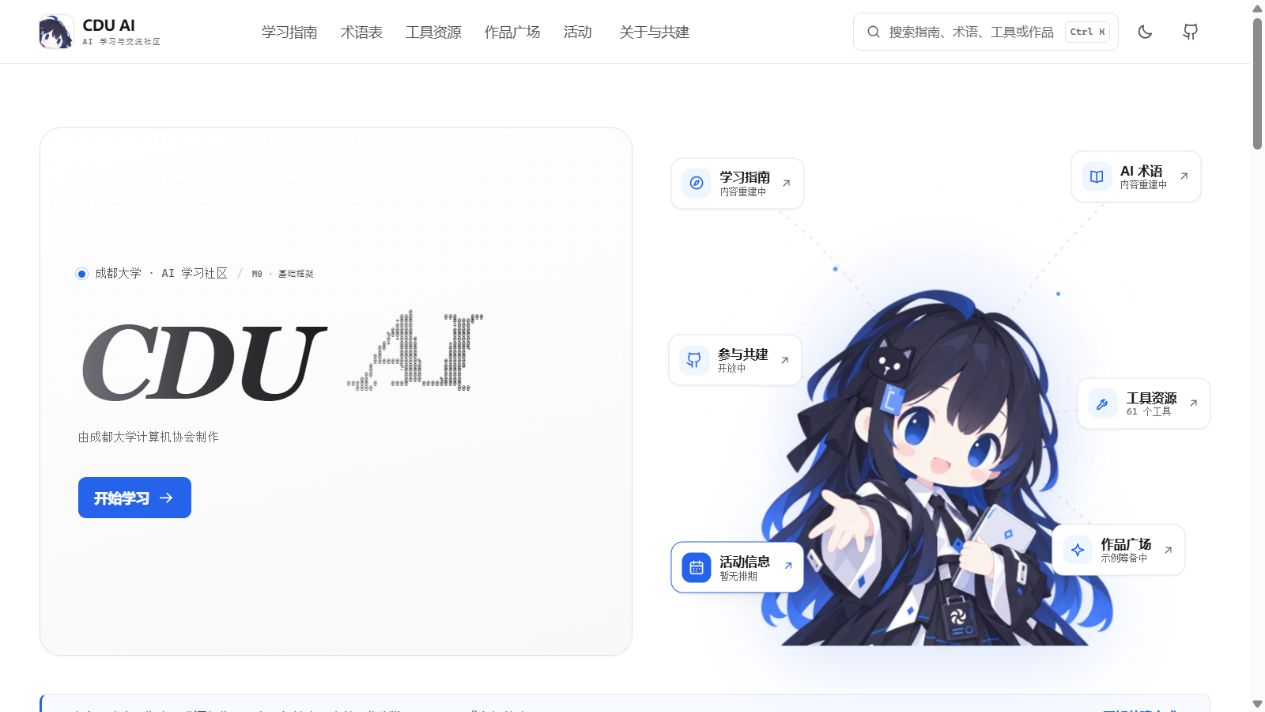
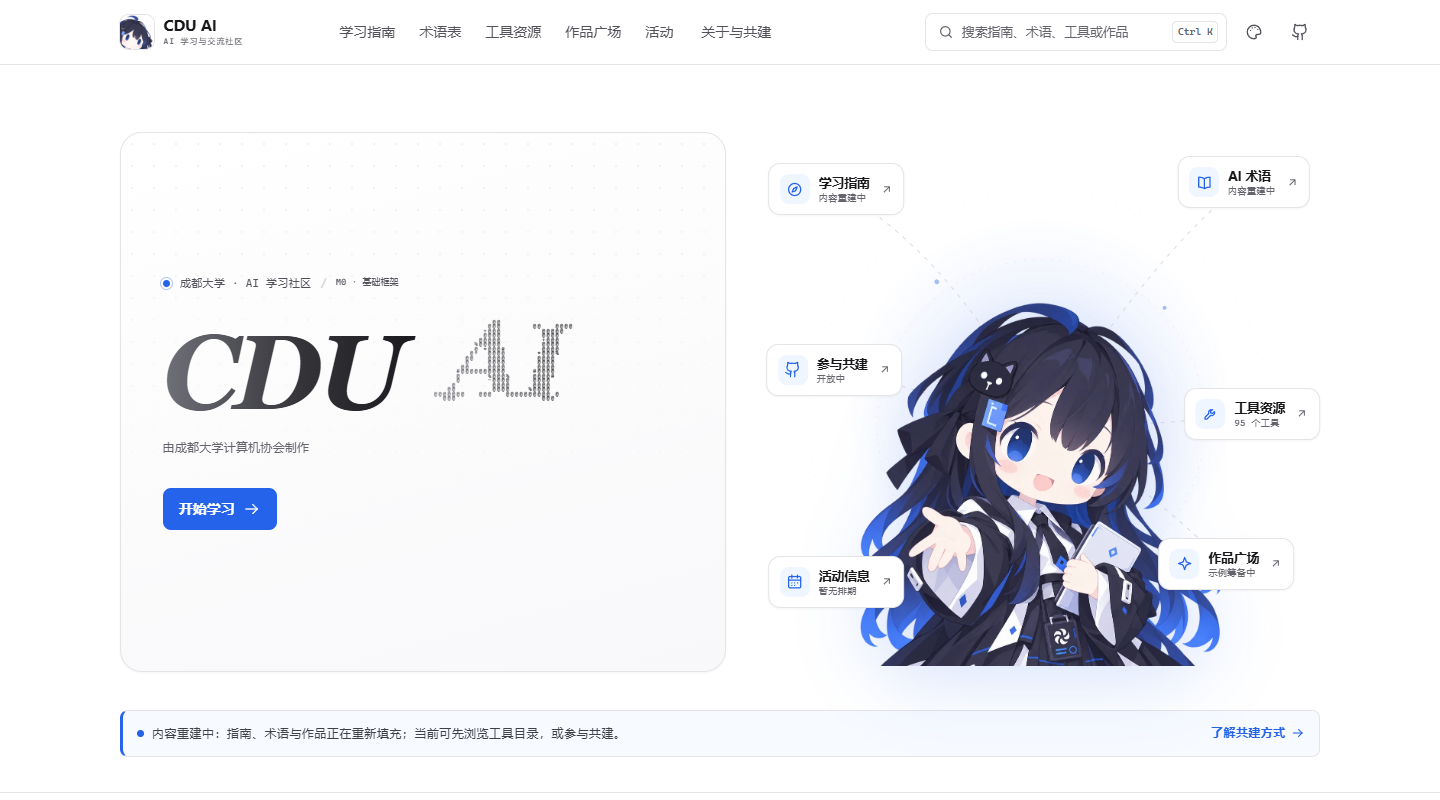
docs: 更新 README、站点入口与界面截图

diff --git a/README.md b/README.md
@@ -6,24 +6,35 @@
 
 由成都大学计算机协会 AI 方向发起，**非学校官方平台**。
 
+**访问网站：[wiki.cduai.top](https://wiki.cduai.top/)**
+
 [参与共建](CONTRIBUTING.md) · [文档导航](docs/README.md) · [贡献与致谢](CONTRIBUTORS.md) · [反馈问题](https://github.com/A7m0spHere/CDU-AI/issues)
 
-> **M0 · 开发中**：站点框架和工具目录已可使用，指南、术语与作品仍在补充。账号、论坛、评论、站内投稿表单和活动报名尚未开放。
+> **M0 · 开发中**：首页、工具目录与指南首页已可浏览，独立指南文章、术语与作品仍在补充。账号、论坛、评论、站内投稿表单和活动报名尚未开放。
 
-![CDU AI 首页：学习入口、项目定位与当前开发状态](docs/screenshots/home.png)
+![CDU AI 首页：品牌角色、学习入口与栏目导航](docs/screenshots/home.png)
 
 ## 当前可以看什么
 
-以下为 **2026-10-24 当前分支的内容快照**。栏目与内容数量由页面数据生成，收录不等于推荐。
+以下为 **2026-10-27 的仓库内容快照**。页面中的栏目与数量由数据生成，收录不等于推荐。
 
-| 栏目 | 可用内容与进度 |
-| --- | --- |
-| 工具资源 | 91 项工具与社区资源、12 个一级分类；各栏目按用途分区，语音与音频统一入口；支持栏目内搜索与能力筛选，更多社区 Agent 默认折叠，暂不收录独立模型 |
-| AI 术语表 | 已有「AI 幻觉」人工核校示范词条，其他词条待社区补充 |
-| 学习指南 | 三阶段学习路径与六个目录分组已建立，指南正文待补充 |
-| 作品广场 | 当前为空；新增示例时会明确标注「策划示例」 |
-| 社区与活动 | 社区暂不开放；活动页展示形式规划，没有真实排期 |
-| 站内搜索 | 支持页面、工具与现有内容检索；快捷键为 Ctrl / Cmd + K |
+- **首页**：三组共 15 个 AI 应用场景，支持换卡浏览；「开始探索AI」用抽象点阵与流动菜单连接指南、工具和术语。场景展示不代表站内提供相应执行能力。
+- **工具资源**：95 项工具与社区资源、11 个一级分类；按用途分区，支持栏目内搜索与能力筛选，更多社区 Agent 默认折叠，暂不收录独立模型。
+- **AI 术语表**：已有「AI 幻觉」人工核校示范词条，其他词条待社区补充。
+- **学习指南**：指南首页已有基础介绍与插图，六个目录分组已建立，独立指南文章待补充。
+- **作品广场**：当前为空；新增示例时会明确标注「策划示例」。
+- **社区与活动**：社区暂不开放；活动页展示形式规划，没有真实排期。
+- **站内搜索**：支持页面、工具与现有内容检索；快捷键为 Ctrl / Cmd + K。
+- **主题与阅读**：支持浅色、深色、预设和自定义主题，可调整配色、背景与字体；动效尊重系统的减少动效设置。
+
+<details>
+<summary>查看首页应用场景与探索入口</summary>
+
+![首页应用场景：探索与理解、表达与创作、动手与实现三组叠卡，每组五个场景](docs/screenshots/home-scenarios.png)
+
+![开始探索AI：随主题配色的抽象点阵，以及指南、工具、术语三个流动菜单入口](docs/screenshots/home-explore.png)
+
+</details>
 
 <details>
 <summary>查看工具目录界面</summary>
@@ -32,7 +43,7 @@
 
 </details>
 
-截图来自 2026-10-24 的本地开发构建，主要展示界面布局，内容数量以当前页面为准；不代表已完成 M0 阶段验收。
+以上截图来自 2026-10-27 的本地生产构建，展示首页与工具目录界面，内容数量以当前页面为准；不代表已完成 M0 阶段验收。
 
 ## 参与共建
 
@@ -75,6 +86,4 @@ npm run preview  # 预览构建产物
 
 ## 许可与素材
 
-代码许可见 [MIT License](LICENSE)。角色插画由维护者提供，复用请先联系维护组；第三方品牌图标的出处与使用说明见 [图标来源记录](docs/TOOL-LOGOS.md)。主题图片、像素贴图与字体的来源及各自许可见 [主题素材记录](docs/THEME-ASSETS.md)，其中奶鲸为维护者确认的 AI 创作图，鲸鱼娘沿用上游标注的 CC BY-NC-SA 4.0。
-
-贡献者名单与项目致谢统一记录在 [CONTRIBUTORS.md](CONTRIBUTORS.md)。
+[代码许可（MIT）](LICENSE) · [素材来源与使用说明](docs/README.md#品牌素材与截图) · [贡献与致谢](CONTRIBUTORS.md)

diff --git a/docs/README.md b/docs/README.md
@@ -52,6 +52,8 @@
 | 作品封面组件 | [`WorkArt.astro`](../src/components/WorkArt.astro)，当前用于示例版式 |
 | 工具品牌图标 | [`public/tool-logos/`](../public/tool-logos/)，来源与处理方式见 [TOOL-LOGOS.md](TOOL-LOGOS.md) |
 | 主题图片、贴图与字体 | 来源、署名及各自许可见 [THEME-ASSETS.md](THEME-ASSETS.md) |
-| README 界面预览 | [`home.png`](screenshots/home.png) / [`tools.png`](screenshots/tools.png)，2026-10-24 本地构建截图 |
+| README 界面预览 | [`home.png`](screenshots/home.png) / [`home-scenarios.png`](screenshots/home-scenarios.png) / [`home-explore.png`](screenshots/home-explore.png) / [`tools.png`](screenshots/tools.png)，2026-10-27 本地生产构建截图 |
 
-角色插画的复用请联系维护组。`docs/screenshots/` 中其他截图保留为历史版式资料，不用来说明当前内容数量或完成状态。
+代码使用 [MIT License](../LICENSE)。角色插画由维护者提供，复用请先联系维护组；第三方工具品牌图标的出处与使用说明见 [TOOL-LOGOS.md](TOOL-LOGOS.md)。主题图片、像素贴图与字体按 [THEME-ASSETS.md](THEME-ASSETS.md) 中记录的来源、署名及各自许可使用，其中奶鲸为维护者确认的 AI 创作图，鲸鱼娘沿用上游标注的 CC BY-NC-SA 4.0。
+
+`docs/screenshots/` 中其他截图保留为历史版式资料，不用来说明当前内容数量或完成状态。
